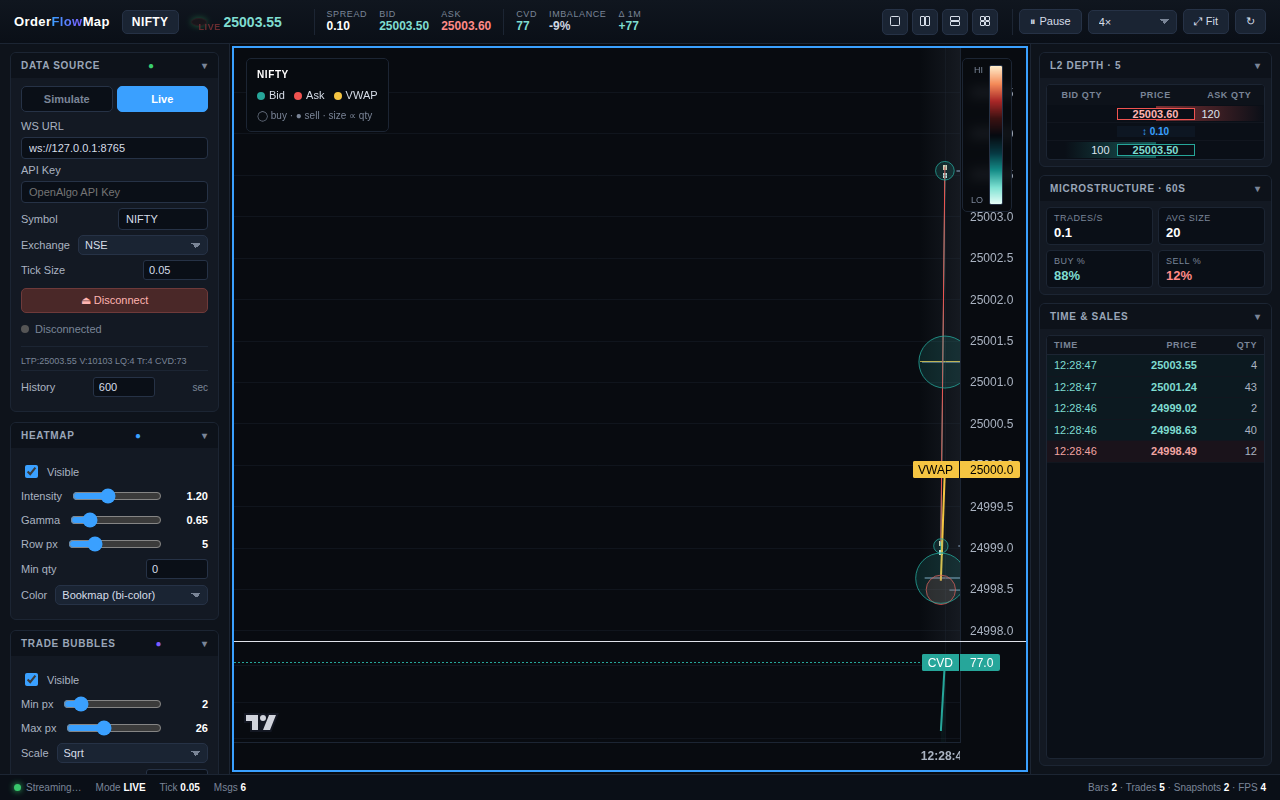
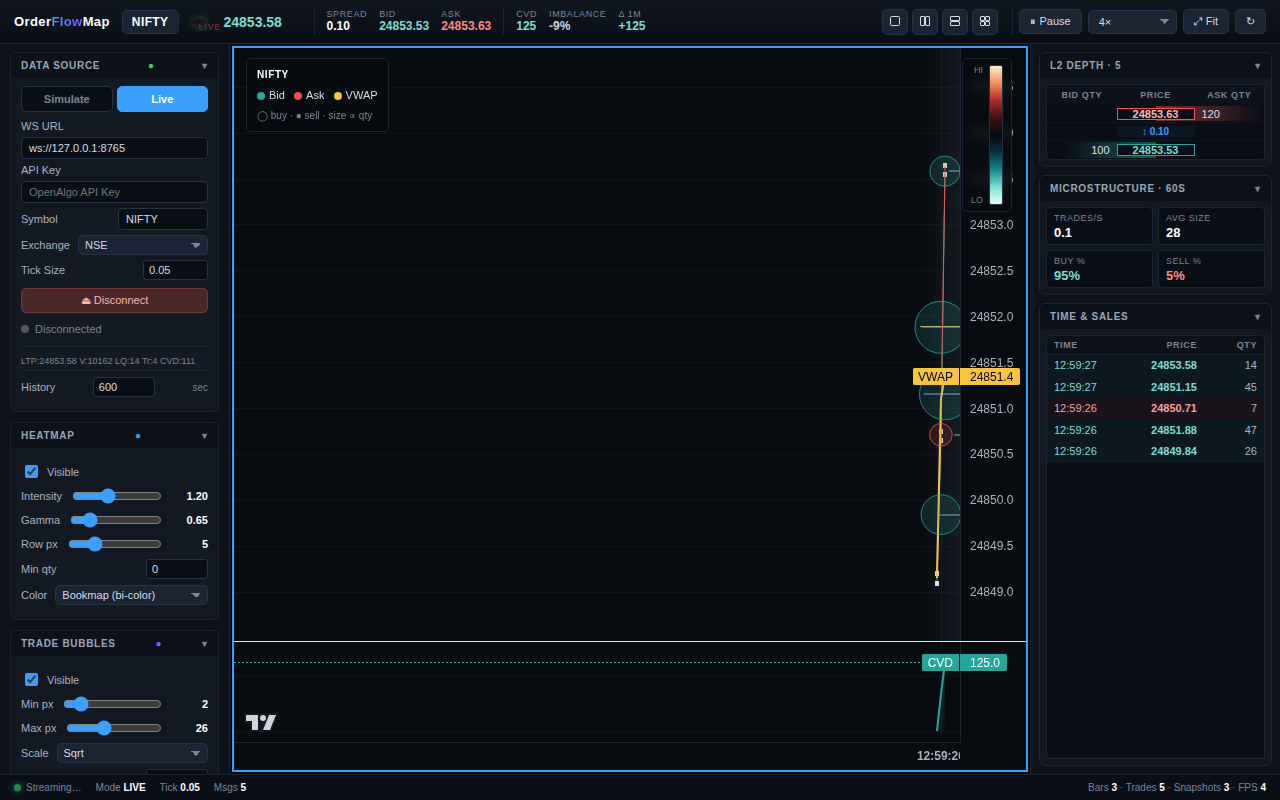
fix: remove hardcoded price bias and improve live initialization
- Modified ChartInstance to start with null mid-price in Live mode, ensuring it only populates from real WebSocket data.
- Updated resetData() to fully clear simulation state when switching to Live.
- Updated mock_server.ts to start at 24850.45 for more realistic NIFTY testing.
- Verified that the chart correctly identifies and tracks incoming data from any price level without "jumps".

diff --git a/index.html b/index.html
@@ -778,7 +778,7 @@ class ChartInstance {
     this.id = id;
     this.container = container;
     this.tick = 0.10;
-    this.mid = 24500.00;
+    this.mid = null; // Initialize as null to avoid hardcoded bias
     this.mode = 'sim';
     this.symbol = 'NIFTY';
     this.exchange = 'NSE';
@@ -805,7 +805,10 @@ class ChartInstance {
 
     this.initDOM();
     this.initChart();
-    this.seedHistory();
+    if (this.mode === 'sim') {
+      this.mid = 24500.00; // Only use default for simulation
+      this.seedHistory();
+    }
   }
 
   initDOM() {
@@ -1073,6 +1076,11 @@ class ChartInstance {
       return;
     }
 
+    if (this.bars.length === 0) {
+      // First tick in Live mode - reset state to ensure no "seed" data is left
+      this.resetData();
+    }
+
     const getField = (obj, keys) => {
       for(const k of keys) {
         if(obj[k] !== undefined && obj[k] !== null) return obj[k];
@@ -1135,6 +1143,7 @@ class ChartInstance {
       this.prevTick.ltp = ltp;
       this.prevTick.volume = vol;
       this.prevTick.ltt = rawLtt;
+      this.mid = ltp;
     }
 
     // Trade detection logic:
@@ -1407,6 +1416,8 @@ document.getElementById('modeSimBtn').addEventListener('click', () => {
   if(activeChart.mode !== 'sim'){
     activeChart.resetData();
     activeChart.mode = 'sim';
+    activeChart.mid = 24500.00;
+    activeChart.seedHistory();
     if (activeChart.liveWs) { activeChart.liveWs.close(); activeChart.liveWs = null; }
     updateSidebarInputs();
     activeChart.syncUI();

diff --git a/mock_server.ts b/mock_server.ts
@@ -11,7 +11,8 @@ const server = Bun.serve({
         ws.send(JSON.stringify({ message: "Authentication successful", status: "success" }));
       } else if (msg.action === 'subscribe') {
         ws.send(JSON.stringify({ message: `Subscribed to ${msg.symbol}`, status: "success" }));
-        let ltp = 25000, vol = 10000;
+        // Start at a more realistic level for NIFTY testing
+        let ltp = 24850.45, vol = 10000;
         const timer = setInterval(() => {
           const change = (Math.random() - 0.5) * 5;
           ltp = parseFloat((ltp + change).toFixed(2));
